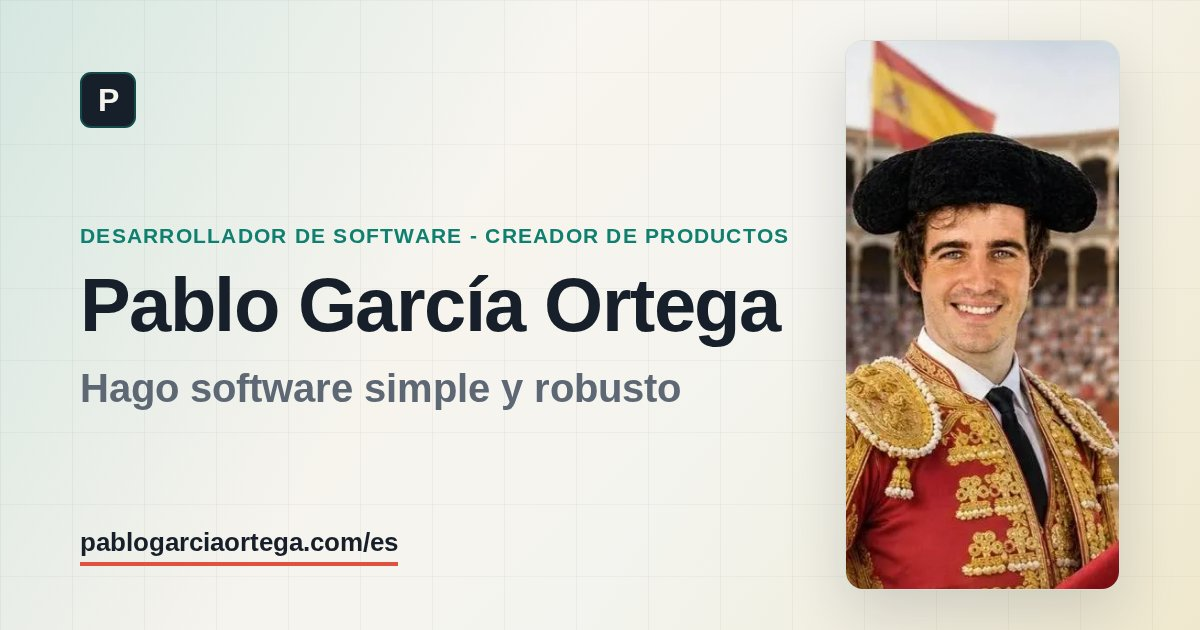
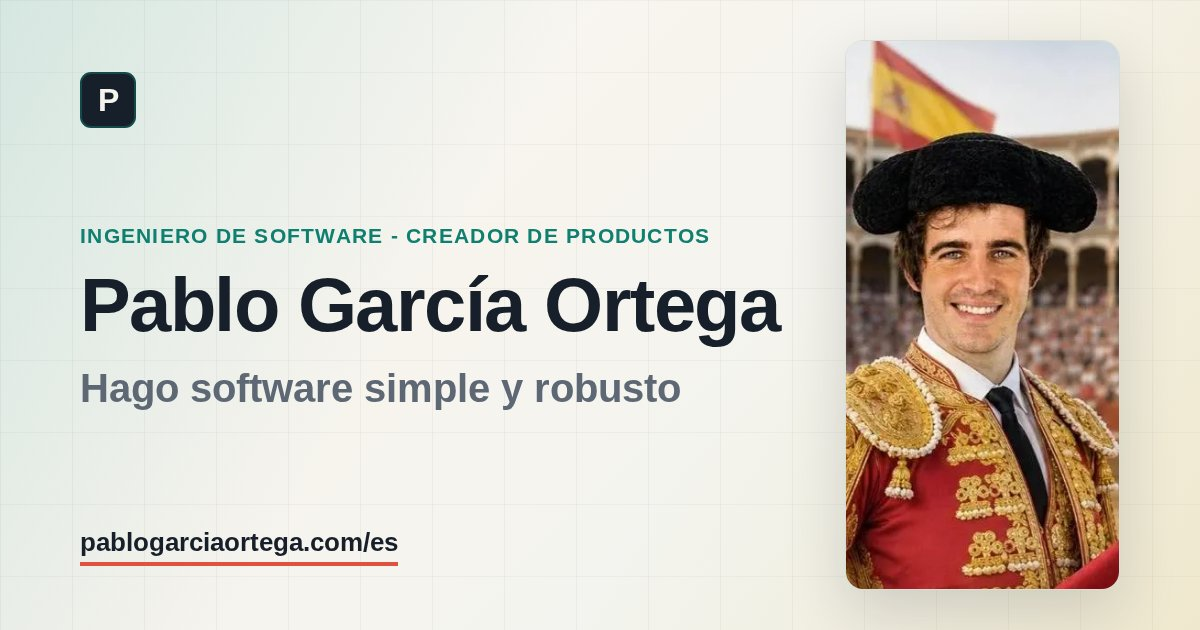
content: presenta a Pablo como Software Engineer en el titular del CV (TASK-66)
Cambia el titular profesional en las dos páginas (title, description,
Open Graph, Twitter, name del ProfilePage, jobTitle y eyebrow): "Software
Engineer" en inglés e "Ingeniero de software" en español. Rehace las
imágenes para compartir y sus alt, y actualiza el lastmod del sitemap.
Los puestos de la experiencia no cambian.

Changed region(s): [[0.0617, 0.3619, 0.6783, 0.3921]]

diff --git a/es/index.html b/es/index.html
@@ -3,8 +3,8 @@
 <head>
     <meta charset="utf-8">
     <meta name="viewport" content="width=device-width, initial-scale=1">
-    <title>Pablo García Ortega | Desarrollador de software</title>
-    <meta name="description" content="Pablo García Ortega es desarrollador de software y creador de productos, especializado en software robusto, fintech, full stack, automatización y sistemas simples.">
+    <title>Pablo García Ortega | Ingeniero de software</title>
+    <meta name="description" content="Pablo García Ortega es ingeniero de software y creador de productos, especializado en software robusto, fintech, full stack, automatización y sistemas simples.">
     <meta name="author" content="Pablo García Ortega">
     <meta name="robots" content="index, follow, max-image-preview:large">
     <link rel="canonical" href="https://pablogarciaortega.com/es/">
@@ -17,19 +17,19 @@
     <meta property="profile:first_name" content="Pablo">
     <meta property="profile:last_name" content="García Ortega">
     <meta property="og:site_name" content="Pablo García Ortega">
-    <meta property="og:title" content="Pablo García Ortega | Desarrollador de software">
-    <meta property="og:description" content="Pablo García Ortega es desarrollador de software y creador de productos, especializado en software robusto, fintech, full stack, automatización y sistemas simples.">
+    <meta property="og:title" content="Pablo García Ortega | Ingeniero de software">
+    <meta property="og:description" content="Pablo García Ortega es ingeniero de software y creador de productos, especializado en software robusto, fintech, full stack, automatización y sistemas simples.">
     <meta property="og:url" content="https://pablogarciaortega.com/es/">
     <meta property="og:image" content="https://pablogarciaortega.com/assets/share-es.jpg">
     <meta property="og:image:type" content="image/jpeg">
     <meta property="og:image:width" content="1200">
     <meta property="og:image:height" content="630">
-    <meta property="og:image:alt" content="Pablo García Ortega · Desarrollador de software - Creador de productos · Hago software simple y robusto · pablogarciaortega.com/es, junto al retrato generado con IA de la versión española">
+    <meta property="og:image:alt" content="Pablo García Ortega · Ingeniero de software - Creador de productos · Hago software simple y robusto · pablogarciaortega.com/es, junto al retrato generado con IA de la versión española">
     <meta name="twitter:card" content="summary_large_image">
-    <meta name="twitter:title" content="Pablo García Ortega | Desarrollador de software">
-    <meta name="twitter:description" content="Pablo García Ortega es desarrollador de software y creador de productos, especializado en software robusto, fintech, full stack, automatización y sistemas simples.">
+    <meta name="twitter:title" content="Pablo García Ortega | Ingeniero de software">
+    <meta name="twitter:description" content="Pablo García Ortega es ingeniero de software y creador de productos, especializado en software robusto, fintech, full stack, automatización y sistemas simples.">
     <meta name="twitter:image" content="https://pablogarciaortega.com/assets/share-es.jpg">
-    <meta name="twitter:image:alt" content="Pablo García Ortega · Desarrollador de software - Creador de productos · Hago software simple y robusto · pablogarciaortega.com/es, junto al retrato generado con IA de la versión española">
+    <meta name="twitter:image:alt" content="Pablo García Ortega · Ingeniero de software - Creador de productos · Hago software simple y robusto · pablogarciaortega.com/es, junto al retrato generado con IA de la versión española">
     <link rel="icon" href="../favicon.ico" sizes="16x16 32x32 48x48">
     <link rel="icon" href="../assets/favicon.svg" type="image/svg+xml">
     <link rel="icon" href="../assets/favicon-96.png" type="image/png" sizes="96x96">
@@ -41,7 +41,7 @@
             "@type": "ProfilePage",
             "@id": "https://pablogarciaortega.com/es/#profilepage",
             "url": "https://pablogarciaortega.com/es/",
-            "name": "Pablo García Ortega | Desarrollador de software",
+            "name": "Pablo García Ortega | Ingeniero de software",
             "inLanguage": "es",
             "mainEntity": {
                 "@type": "Person",
@@ -52,8 +52,8 @@
                 "familyName": "García Ortega",
                 "url": "https://pablogarciaortega.com/",
                 "image": "https://pablogarciaortega.com/assets/profile-es.webp",
-                "jobTitle": "Desarrollador de software",
-                "description": "Pablo García Ortega es desarrollador de software y creador de productos, especializado en software robusto, fintech, full stack, automatización y sistemas simples.",
+                "jobTitle": "Ingeniero de software",
+                "description": "Pablo García Ortega es ingeniero de software y creador de productos, especializado en software robusto, fintech, full stack, automatización y sistemas simples.",
                 "worksFor": {
                     "@type": "Organization",
                     "name": "Inveert"
@@ -119,7 +119,7 @@
     <main id="top">
         <section class="hero">
             <div class="hero-copy reveal">
-                <p class="eyebrow">Desarrollador de software - Creador de productos</p>
+                <p class="eyebrow">Ingeniero de software - Creador de productos</p>
                 <h1>
                     <span>Pablo García Ortega</span>
                     <span>Hago software simple y robusto</span>

diff --git a/index.html b/index.html
@@ -3,8 +3,8 @@
 <head>
     <meta charset="utf-8">
     <meta name="viewport" content="width=device-width, initial-scale=1">
-    <title>Pablo García Ortega | Software Developer & Product Builder</title>
-    <meta name="description" content="Pablo García Ortega is a software developer and product builder focused on simple, robust software, fintech, full-stack development and automation.">
+    <title>Pablo García Ortega | Software Engineer & Product Builder</title>
+    <meta name="description" content="Pablo García Ortega is a software engineer and product builder focused on simple, robust software, fintech, full-stack development and automation.">
     <meta name="author" content="Pablo García Ortega">
     <meta name="robots" content="index, follow, max-image-preview:large">
     <link rel="canonical" href="https://pablogarciaortega.com/">
@@ -17,19 +17,19 @@
     <meta property="profile:first_name" content="Pablo">
     <meta property="profile:last_name" content="García Ortega">
     <meta property="og:site_name" content="Pablo García Ortega">
-    <meta property="og:title" content="Pablo García Ortega | Software Developer & Product Builder">
-    <meta property="og:description" content="Pablo García Ortega is a software developer and product builder focused on simple, robust software, fintech, full-stack development and automation.">
+    <meta property="og:title" content="Pablo García Ortega | Software Engineer & Product Builder">
+    <meta property="og:description" content="Pablo García Ortega is a software engineer and product builder focused on simple, robust software, fintech, full-stack development and automation.">
     <meta property="og:url" content="https://pablogarciaortega.com/">
     <meta property="og:image" content="https://pablogarciaortega.com/assets/share-us.jpg">
     <meta property="og:image:type" content="image/jpeg">
     <meta property="og:image:width" content="1200">
     <meta property="og:image:height" content="630">
-    <meta property="og:image:alt" content="Pablo García Ortega · Software developer - Product builder · I build simple, robust software · pablogarciaortega.com, next to the AI-generated portrait from the US version">
+    <meta property="og:image:alt" content="Pablo García Ortega · Software engineer - Product builder · I build simple, robust software · pablogarciaortega.com, next to the AI-generated portrait from the US version">
     <meta name="twitter:card" content="summary_large_image">
-    <meta name="twitter:title" content="Pablo García Ortega | Software Developer & Product Builder">
-    <meta name="twitter:description" content="Pablo García Ortega is a software developer and product builder focused on simple, robust software, fintech, full-stack development and automation.">
+    <meta name="twitter:title" content="Pablo García Ortega | Software Engineer & Product Builder">
+    <meta name="twitter:description" content="Pablo García Ortega is a software engineer and product builder focused on simple, robust software, fintech, full-stack development and automation.">
     <meta name="twitter:image" content="https://pablogarciaortega.com/assets/share-us.jpg">
-    <meta name="twitter:image:alt" content="Pablo García Ortega · Software developer - Product builder · I build simple, robust software · pablogarciaortega.com, next to the AI-generated portrait from the US version">
+    <meta name="twitter:image:alt" content="Pablo García Ortega · Software engineer - Product builder · I build simple, robust software · pablogarciaortega.com, next to the AI-generated portrait from the US version">
     <link rel="icon" href="./favicon.ico" sizes="16x16 32x32 48x48">
     <link rel="icon" href="./assets/favicon.svg" type="image/svg+xml">
     <link rel="icon" href="./assets/favicon-96.png" type="image/png" sizes="96x96">
@@ -41,7 +41,7 @@
             "@type": "ProfilePage",
             "@id": "https://pablogarciaortega.com/#profilepage",
             "url": "https://pablogarciaortega.com/",
-            "name": "Pablo García Ortega | Software Developer & Product Builder",
+            "name": "Pablo García Ortega | Software Engineer & Product Builder",
             "inLanguage": "en-US",
             "mainEntity": {
                 "@type": "Person",
@@ -52,8 +52,8 @@
                 "familyName": "García Ortega",
                 "url": "https://pablogarciaortega.com/",
                 "image": "https://pablogarciaortega.com/assets/profile-us.webp",
-                "jobTitle": "Software Developer",
-                "description": "Pablo García Ortega is a software developer and product builder focused on simple, robust software, fintech, full-stack development and automation.",
+                "jobTitle": "Software Engineer",
+                "description": "Pablo García Ortega is a software engineer and product builder focused on simple, robust software, fintech, full-stack development and automation.",
                 "worksFor": {
                     "@type": "Organization",
                     "name": "Inveert"
@@ -119,7 +119,7 @@
     <main id="top">
         <section class="hero">
             <div class="hero-copy reveal">
-                <p class="eyebrow">Software developer - Product builder</p>
+                <p class="eyebrow">Software engineer - Product builder</p>
                 <h1>
                     <span>Pablo García Ortega</span>
                     <span>I build simple, robust software</span>
